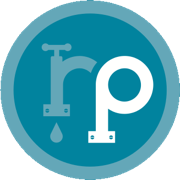
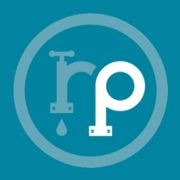
Update meta assets

diff --git a/layouts/partials/head.html b/layouts/partials/head.html
@@ -40,8 +40,16 @@
   {{- end -}}
   ">
   
-  <link rel="icon" type="image/png" href="{{ .Site.BaseURL }}/img/apple-touch-icon.png?v=2">
-  <link rel="apple-touch-icon" sizes="180x180" href="{{ .Site.BaseURL }}/img/apple-touch-icon.png?v=2">
+
+  <link rel="apple-touch-icon" sizes="180x180" href="/img/apple-touch-icon.png?v=XBJvKlqw7z">
+  <link rel="icon" type="image/png" sizes="32x32" href="/img/favicon-32x32.png?v=XBJvKlqw7z">
+  <link rel="icon" type="image/png" sizes="16x16" href="/img/favicon-16x16.png?v=XBJvKlqw7z">
+  <link rel="manifest" href="/img/site.webmanifest?v=XBJvKlqw7z">
+  <link rel="mask-icon" href="/img/safari-pinned-tab.svg?v=XBJvKlqw7z" color="#0084a0">
+  <link rel="shortcut icon" href="/img/favicon.ico?v=XBJvKlqw7z">
+  <meta name="msapplication-TileColor" content="#0084a0">
+  <meta name="msapplication-config" content="/img/browserconfig.xml?v=XBJvKlqw7z">
+  <meta name="theme-color" content="#0084a0">
   
   <style>
     @font-face {
